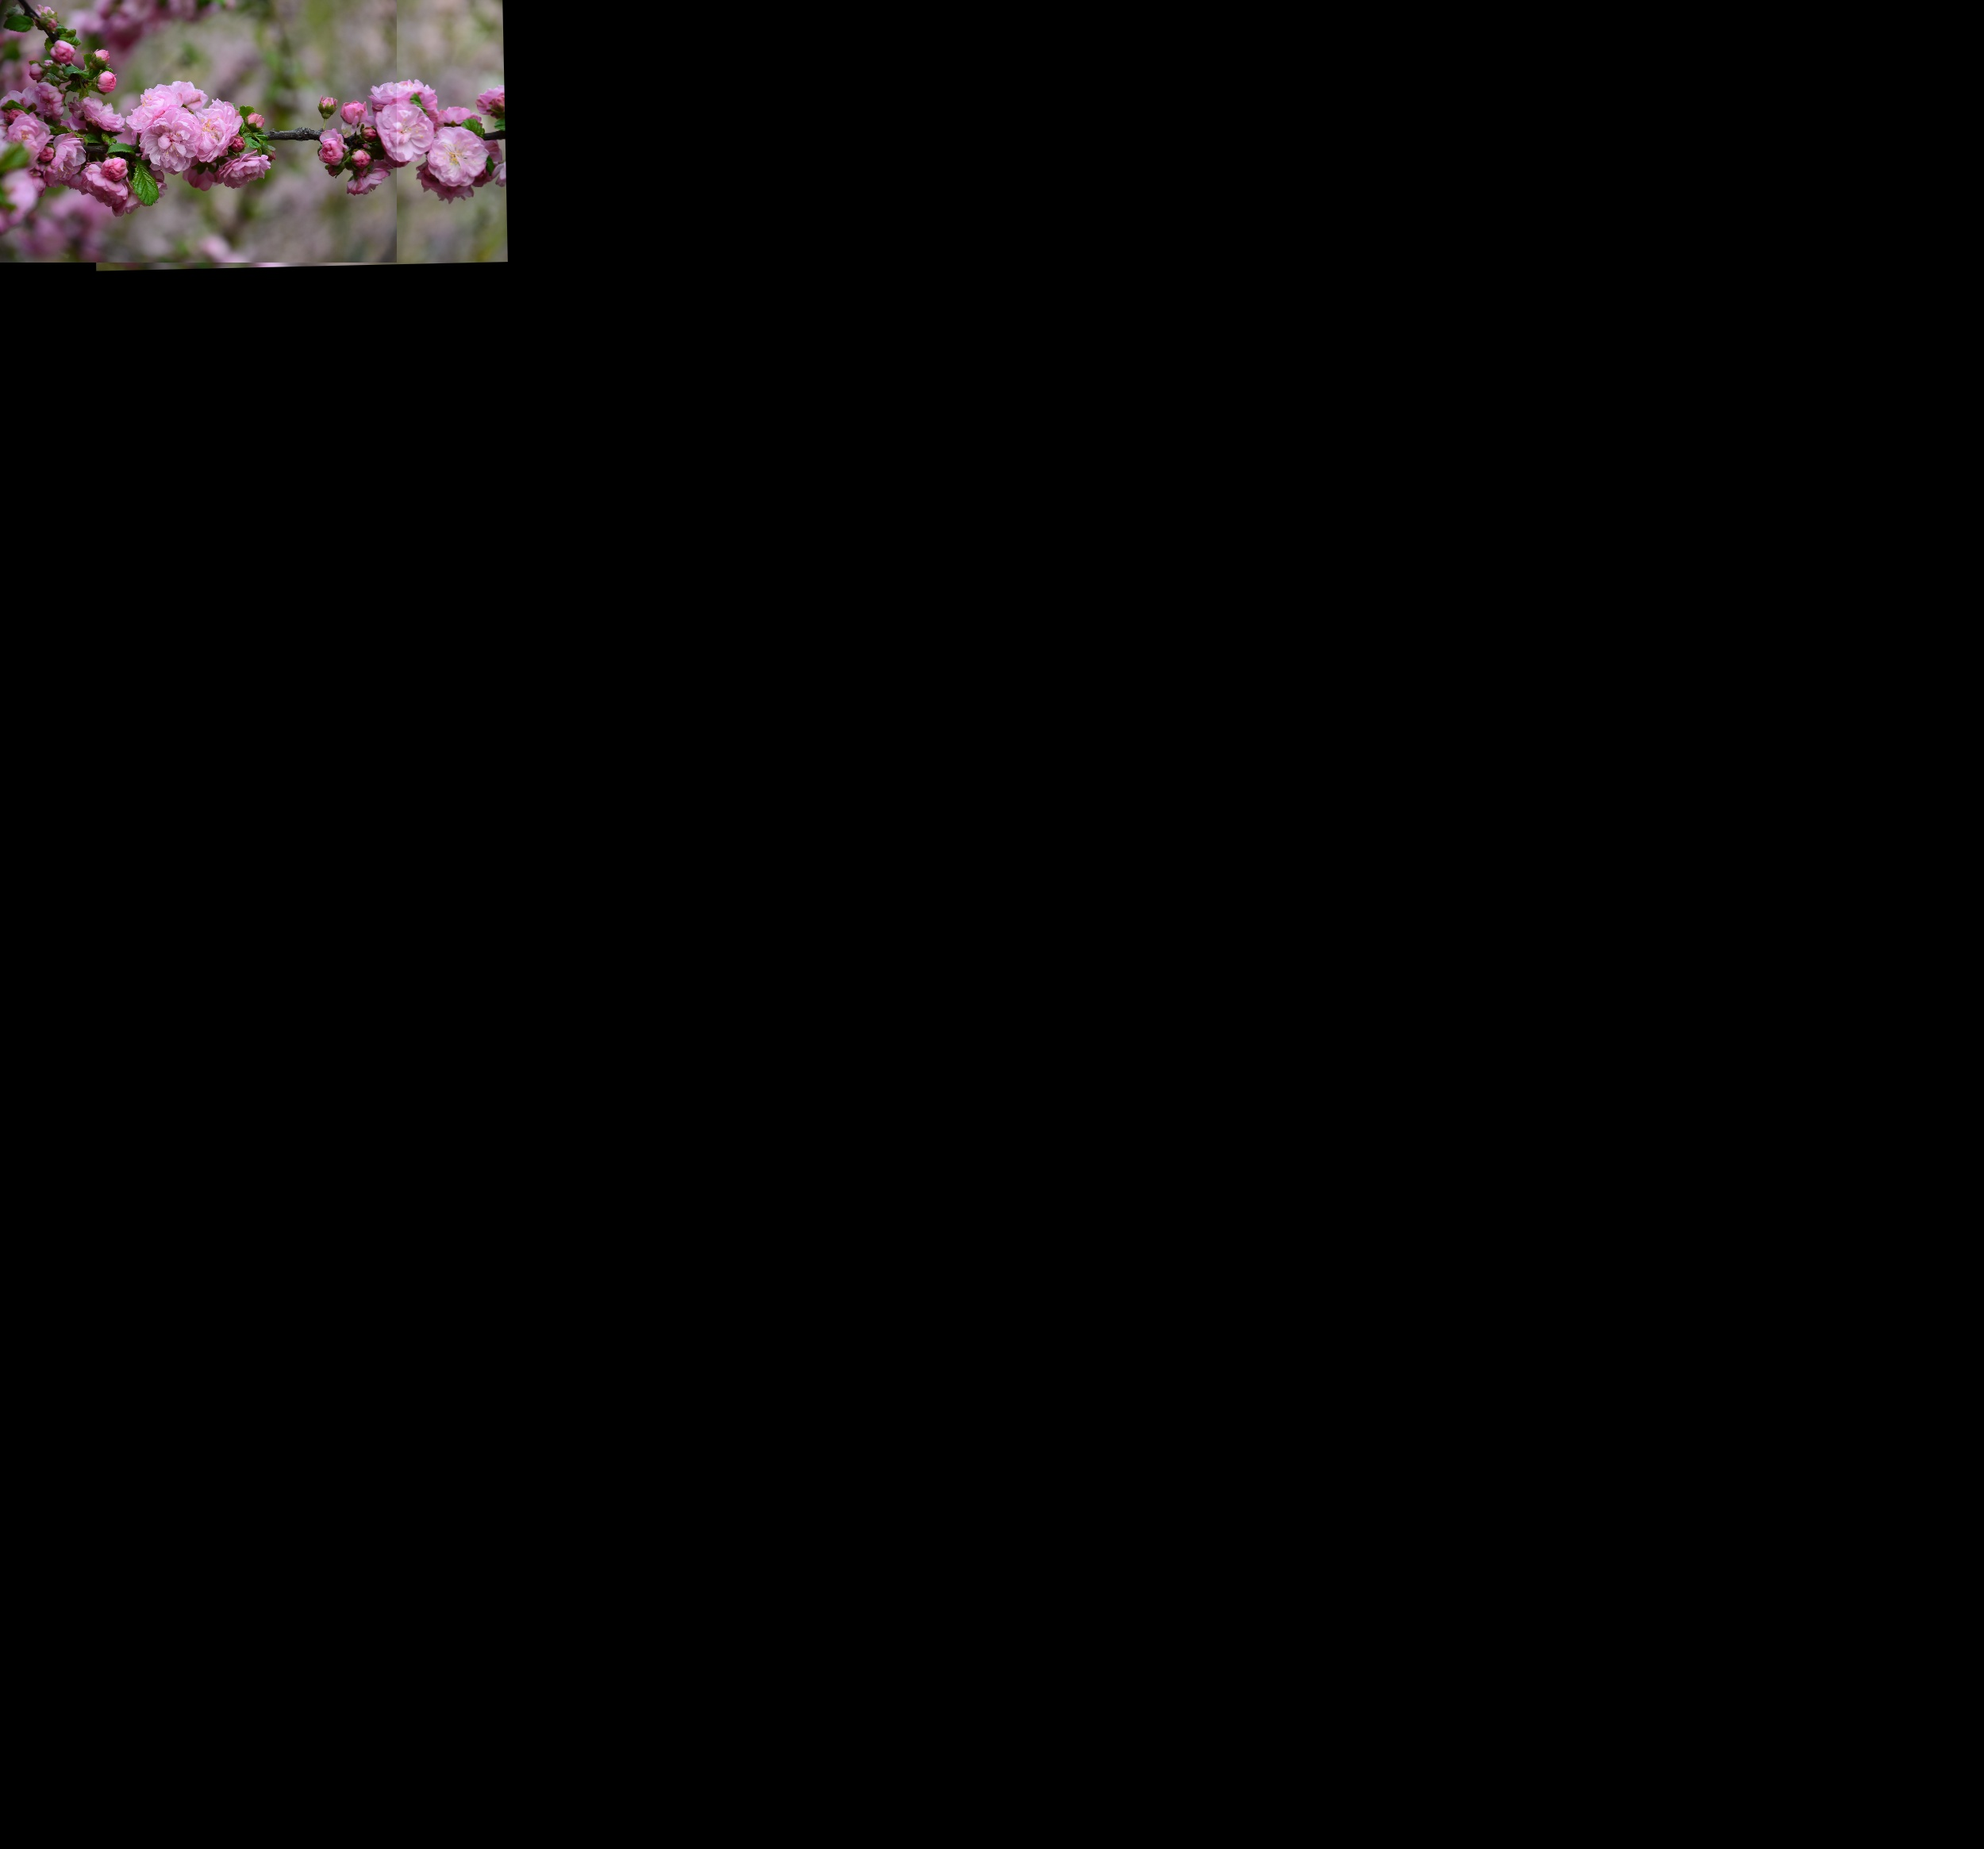
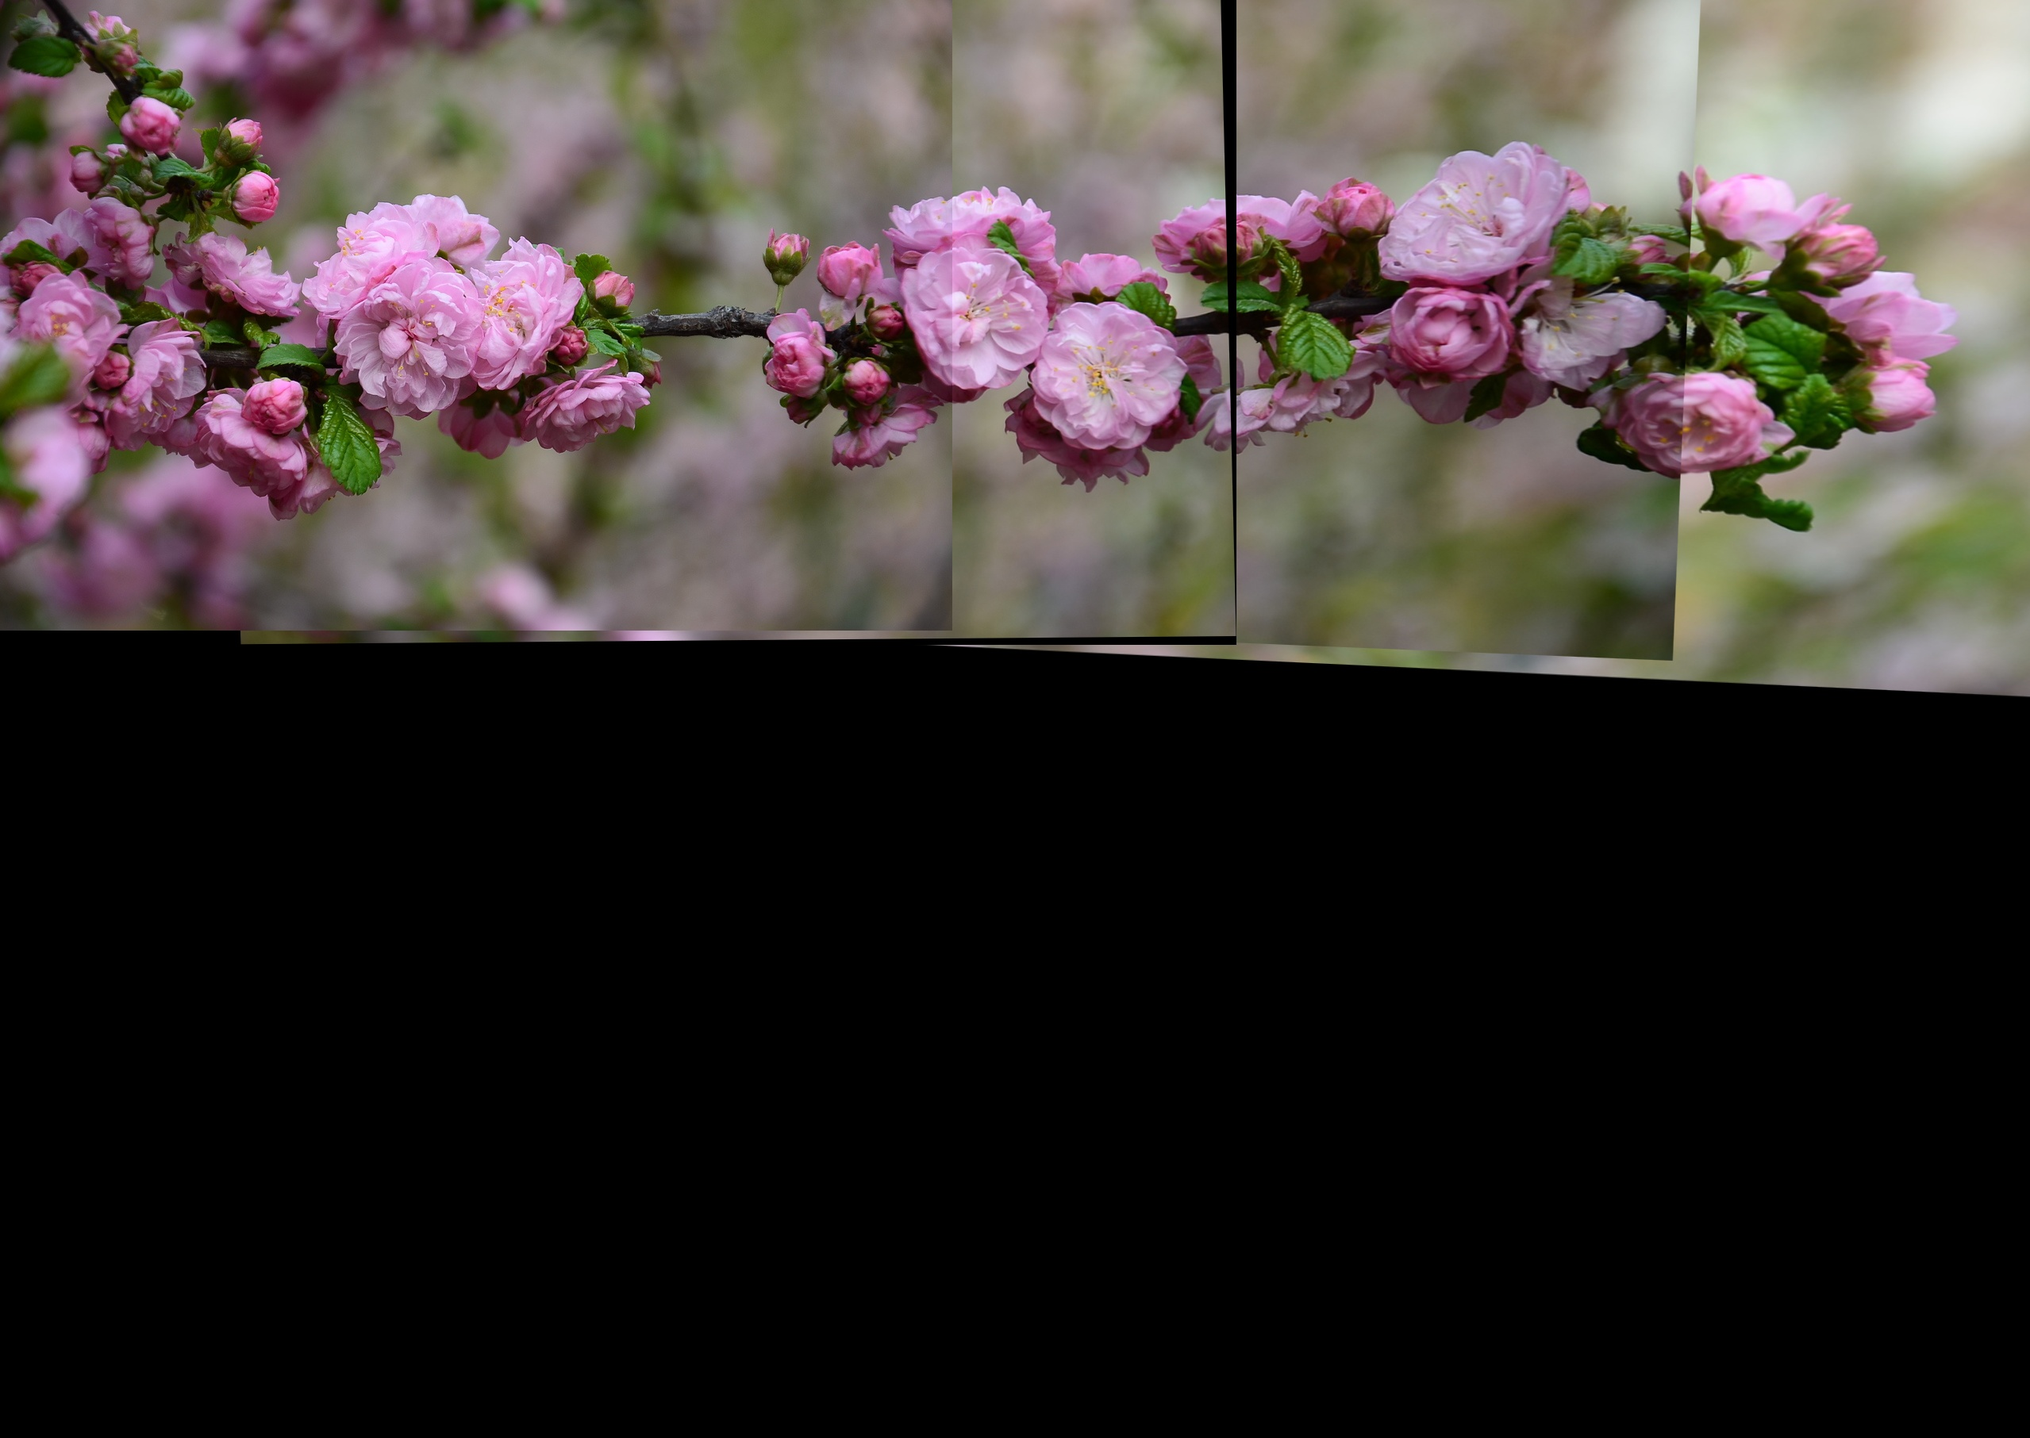
Used cv2.boundingRect to get rid of the excessive black padding around panorama12 (to bring the combined images closer).

diff --git a/GES_50_panorama.py b/GES_50_panorama.py
@@ -79,13 +79,13 @@ def match_features(d1, d2, method='match1'):
 
     return matches
 
-matches = match_features(desc1[1], desc2[1], method='match1')
-matches = match_features(desc1[1], desc2[1], method='match2')
+matches12 = match_features(desc1[1], desc2[1], method='match1')
+matches12 = match_features(desc1[1], desc2[1], method='match2')
 
-dimg = cv.drawMatches(img1, desc1[0], img2, desc2[0], matches, None)
+dimg12 = cv.drawMatches(img1, desc1[0], img2, desc2[0], matches12, None)
 cv.namedWindow('main3')
-cv.imshow('main3', dimg)
-cv2.imwrite('results/GES-50/dimg.jpg', dimg)
+cv.imshow('main3', dimg12)
+cv2.imwrite('results/GES-50/dimg12.jpg', dimg12)
 cv.waitKey(0)
 
 img_pt1 = []
@@ -102,7 +102,7 @@ def create_panorama(img1, img2, kp1, kp2, desc1, desc2, matches):
 
     return panorama
 
-panorama12 = create_panorama(img1, img2, kp1, kp2, desc1, desc2, matches)
+panorama12 = create_panorama(img1, img2, kp1, kp2, desc1, desc2, matches12)
 cv.namedWindow('panorama12')
 cv.imshow('panorama12', panorama12)
 cv2.imwrite('results/GES-50/panorama12.jpg', panorama12)
@@ -110,9 +110,9 @@ kp12 = sift.detect(panorama12)
 desc12 = sift.compute(panorama12, kp12)
 cv.waitKey(0)
 
-matches = match_features(desc3[1], desc4[1], method='match1')
-matches = match_features(desc3[1], desc4[1], method='match2')
-panorama34 = create_panorama(img3, img4, kp3, kp4, desc3, desc4, matches)
+matches34 = match_features(desc3[1], desc4[1], method='match1')
+matches34 = match_features(desc3[1], desc4[1], method='match2')
+panorama34 = create_panorama(img3, img4, kp3, kp4, desc3, desc4, matches34)
 cv.namedWindow('panorama34')
 cv.imshow('panorama34', panorama34)
 cv2.imwrite('results/GES-50/panorama34.jpg', panorama34)
@@ -120,20 +120,34 @@ kp34 = sift.detect(panorama34)
 desc34 = sift.compute(panorama34, kp34)
 cv.waitKey(0)
 
-final_dimg = cv.drawMatches(img1, desc1[0], img2, desc2[0], matches, None)
+dimg34 = cv.drawMatches(img3, desc3[0], img4, desc4[0], matches34, None)
+cv.namedWindow('main3')
+cv.imshow('main3', dimg34)
+cv2.imwrite('results/GES-50/dimg34.jpg', dimg34)
+
+# Find non-black area
+gray12 = cv2.cvtColor(panorama12, cv2.COLOR_BGR2GRAY)
+_, thresh12 = cv2.threshold(gray12, 1, 255, cv2.THRESH_BINARY)
+x, y, w, h = cv2.boundingRect(thresh12)
+cropped_panorama12 = panorama12[y:y+h, x:x+w]
+
+gray34 = cv2.cvtColor(panorama34, cv2.COLOR_BGR2GRAY)
+_, thresh12 = cv2.threshold(gray34, 1, 255, cv2.THRESH_BINARY)
+x, y, w, h = cv2.boundingRect(thresh12)
+cropped_panorama34 = panorama34[y:y+h, x:x+w]
+
+matches_final = match_features(desc12[1], desc34[1], method='match1')
+matches_final = match_features(desc12[1], desc34[1], method='match2')
+final_dimg = cv.drawMatches(cropped_panorama12, desc12[0], cropped_panorama34, desc34[0], matches_final, None)
 cv.namedWindow('final_dimg')
 cv.imshow('final_dimg', final_dimg)
 cv2.imwrite('results/GES-50/final_dimg.jpg', final_dimg)
 cv.waitKey(0)
 
-matches = match_features(desc12[1], desc34[1], method='match1')
-matches = match_features(desc12[1], desc34[1], method='match2')
-final_panorama = create_panorama(panorama12, panorama34, kp1, kp4, desc12, desc34, matches)
+final_panorama = create_panorama(cropped_panorama12, cropped_panorama34, kp12, kp34, desc12, desc34, matches_final)
 cv.namedWindow('final_panorama')
 cv.imshow('final_panorama', final_panorama)
 cv2.imwrite('results/GES-50/final_panorama.jpg', final_panorama)
 cv.waitKey(0)
 
 pass
-
-

diff --git a/OpenPano_flower_panorama.py b/OpenPano_flower_panorama.py
@@ -12,7 +12,6 @@ def resize_image(img, width=500):
     return cv2.resize(img, (width, new_height))
 
 img1 = cv.imread('img/OpenPano/flower/1.jpg')
-img1 = resize_image(img1)
 cv.namedWindow('main1')
 cv.imshow('main1', img1)
 cv.waitKey(0)
@@ -20,7 +19,6 @@ kp1 = sift.detect(img1)
 desc1 = sift.compute(img1, kp1)
 
 img2 = cv.imread('img/OpenPano/flower/2.jpg')
-img2 = resize_image(img2)
 cv.namedWindow('main2')
 cv.imshow('main2', img2)
 cv.waitKey(0)
@@ -28,7 +26,6 @@ kp2 = sift.detect(img2)
 desc2 = sift.compute(img2, kp2)
 
 img3 = cv.imread('img/OpenPano/flower/3.jpg')
-img3 = resize_image(img3)
 cv.namedWindow('main2')
 cv.imshow('main2', img3)
 cv.waitKey(0)
@@ -36,7 +33,6 @@ kp3 = sift.detect(img3)
 desc3 = sift.compute(img3, kp3)
 
 img4 = cv.imread('img/OpenPano/flower/4.jpg')
-img4 = resize_image(img4)
 cv.namedWindow('main2')
 cv.imshow('main2', img4)
 cv.waitKey(0)
@@ -120,20 +116,31 @@ kp34 = sift.detect(panorama34)
 desc34 = sift.compute(panorama34, kp34)
 cv.waitKey(0)
 
-dimg34 = cv.drawMatches(img1, desc1[0], img2, desc2[0], matches34, None)
+dimg34 = cv.drawMatches(img3, desc3[0], img4, desc4[0], matches34, None)
 cv.namedWindow('main3')
 cv.imshow('main3', dimg34)
 cv2.imwrite('results/OpenPano/flower/dimg34.jpg', dimg34)
 
+# Find non-black area
+gray12 = cv2.cvtColor(panorama12, cv2.COLOR_BGR2GRAY)
+_, thresh12 = cv2.threshold(gray12, 1, 255, cv2.THRESH_BINARY)
+x, y, w, h = cv2.boundingRect(thresh12)
+cropped_panorama12 = panorama12[y:y+h, x:x+w]
+
+gray34 = cv2.cvtColor(panorama34, cv2.COLOR_BGR2GRAY)
+_, thresh12 = cv2.threshold(gray34, 1, 255, cv2.THRESH_BINARY)
+x, y, w, h = cv2.boundingRect(thresh12)
+cropped_panorama34 = panorama34[y:y+h, x:x+w]
+
 matches_final = match_features(desc12[1], desc34[1], method='match1')
 matches_final = match_features(desc12[1], desc34[1], method='match2')
-final_dimg = cv.drawMatches(img1, desc1[0], img2, desc2[0], matches_final, None)
+final_dimg = cv.drawMatches(cropped_panorama12, desc12[0], cropped_panorama34, desc34[0], matches_final, None)
 cv.namedWindow('final_dimg')
 cv.imshow('final_dimg', final_dimg)
 cv2.imwrite('results/OpenPano/flower/final_dimg.jpg', final_dimg)
 cv.waitKey(0)
 
-final_panorama = create_panorama(panorama12, panorama34, kp12, kp34, desc12, desc34, matches_final)
+final_panorama = create_panorama(cropped_panorama12, cropped_panorama34, kp12, kp34, desc12, desc34, matches_final)
 cv.namedWindow('final_panorama')
 cv.imshow('final_panorama', final_panorama)
 cv2.imwrite('results/OpenPano/flower/final_panorama.jpg', final_panorama)
